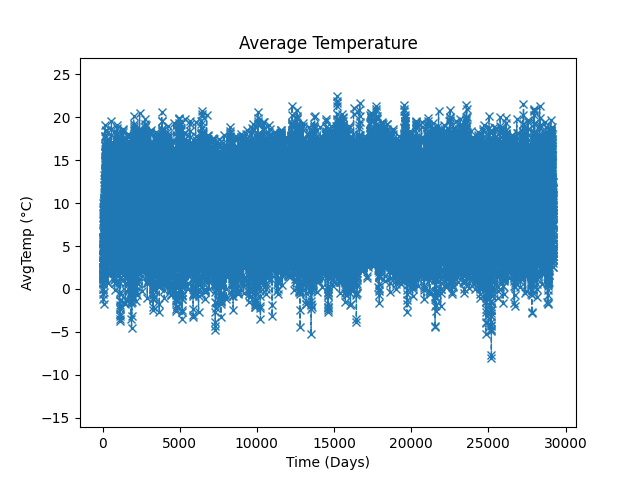
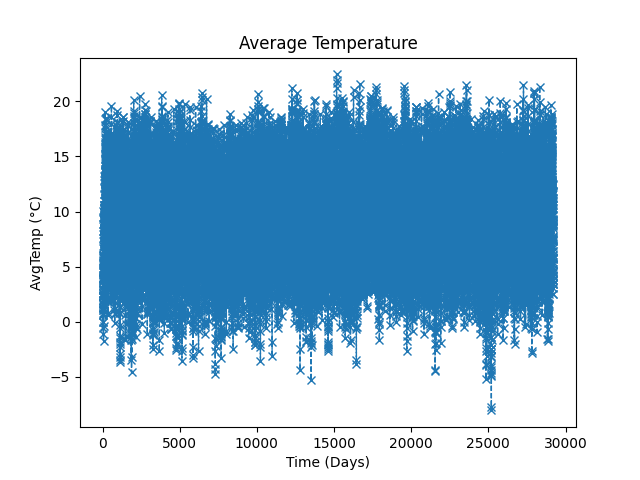
Read Time Series

diff --git a/DublinAirportAvgTempLinearAnalysis.py b/DublinAirportAvgTempLinearAnalysis.py
@@ -1,7 +1,8 @@
 # Imports.
 import LinearAnalysisFunctions as lf
-from statsmodels.graphics.tsaplots import plot_acf
+from statsmodels.graphics.tsaplots import plot_acf, plot_pacf
 import matplotlib.pyplot as plt
+import pmdarima as pm
 import pandas as pd
 import numpy as np
 import os
@@ -15,21 +16,46 @@ except FileNotFoundError:
     data = pd.read_csv(filename, delimiter=',', parse_dates=['date'])
 
 print("---------------------------------------------------------------------------------------------------------------")
-print("Time Series:")
+print("Average Temperature Time Series:\n")
 data = data.drop("Unnamed: 0", axis=1)
 print(data)
 
 # Define Average Temperature Time Series.
-x = data.AvgTemp
+x = data.AvgTemp.values
+x_df = pd.DataFrame({data.AvgTemp.name: x})
 savepath = 'data/'
-value = 'AvgTemp (°C)'
+strings = ['AvgTemp (°C)', 'Average Temperature']
 
 # Plot Average Temperature.
-lf.plot_timeseries(x, value, 'Average Temperature', savepath)
+lf.plot_timeseries(x, strings[0], strings[1], savepath)
 plt.show()
 
 # Average Temperature Histogram.
-lf.plot_histogram(x, value, 'Average Temperature', savepath)
+lf.plot_histogram(x, strings[0], strings[1], savepath)
 plt.show()
 
 # Remove Trend.
+window = 15
+ma = lf.rolling_window(x=x, window=window)
+plt.plot(ma, linestyle='--')
+plt.plot(x, alpha=0.5)
+plt.plot(x-ma, alpha=0.5)
+plt.legend([f'MA', 'Original', 'Detrended'])
+plt.show()
+
+# First Differences.
+fd = np.diff(x)
+
+# Comparison.
+plt.plot(x-ma, alpha=0.5)
+plt.plot(fd, alpha=0.5)
+plt.xlim(1000, 2000)
+plt.legend(['ma', 'diffs'])
+plt.show()
+
+# Correlation.
+plot_acf(x-ma, zero=False)
+plt.show()
+
+
+

diff --git a/LinearAnalysisFunctions.py b/LinearAnalysisFunctions.py
@@ -5,12 +5,11 @@ import numpy as np
 
 
 # Plot Time Series.
-def plot_timeseries(x, value='', title='', savepath='', zoomy=1):
+def plot_timeseries(x, value='', title='', savepath=''):
 
     plt.plot(x, marker='x', linestyle='--', linewidth=1)
     plt.xlabel('Time (Days)')
     plt.ylabel(value)
-    plt.ylim([-zoomy * abs(min(x)) - abs(min(x)), zoomy * abs(max(x)) + 0.2*abs(max(x))])
     if len(title) > 0:
         plt.title(title, x=0.5, y=1.0)
     if len(savepath) > 0:
@@ -27,4 +26,26 @@ def plot_histogram(x, value, title='', savepath=''):
         plt.title(title, x=0.5, y=1.0)
     if len(savepath) > 0:
         plt.savefig(f'{savepath}/{title} Histogram.png')
+
+
+# Returns the Moving Average of a Time Series x with Length of Window.
+def rolling_window(x, window):
+
+    x = x.flatten()
+    return np.convolve(x, np.ones(window) / window, mode='same')
+
+
+# Fit to a given time series with a polynomial of a given order. x: vector of length 'n' of the time series
+# p: the order of the polynomial to be fitted. return: vector of length 'n' of the fitted time series.
+def polynomial_fit(x, p):
+
+    n = x.shape[0]
+    x = x[:]
+    if p > 1:
+        tv = np.arange(n)
+        bv = np.polyfit(x=tv, y=x, deg=p)
+        muv = np.polyval(p=bv, x=tv)
+    else:
+        muv = np.full(shape=n, fill_value=np.nan)
+    return muv
 
